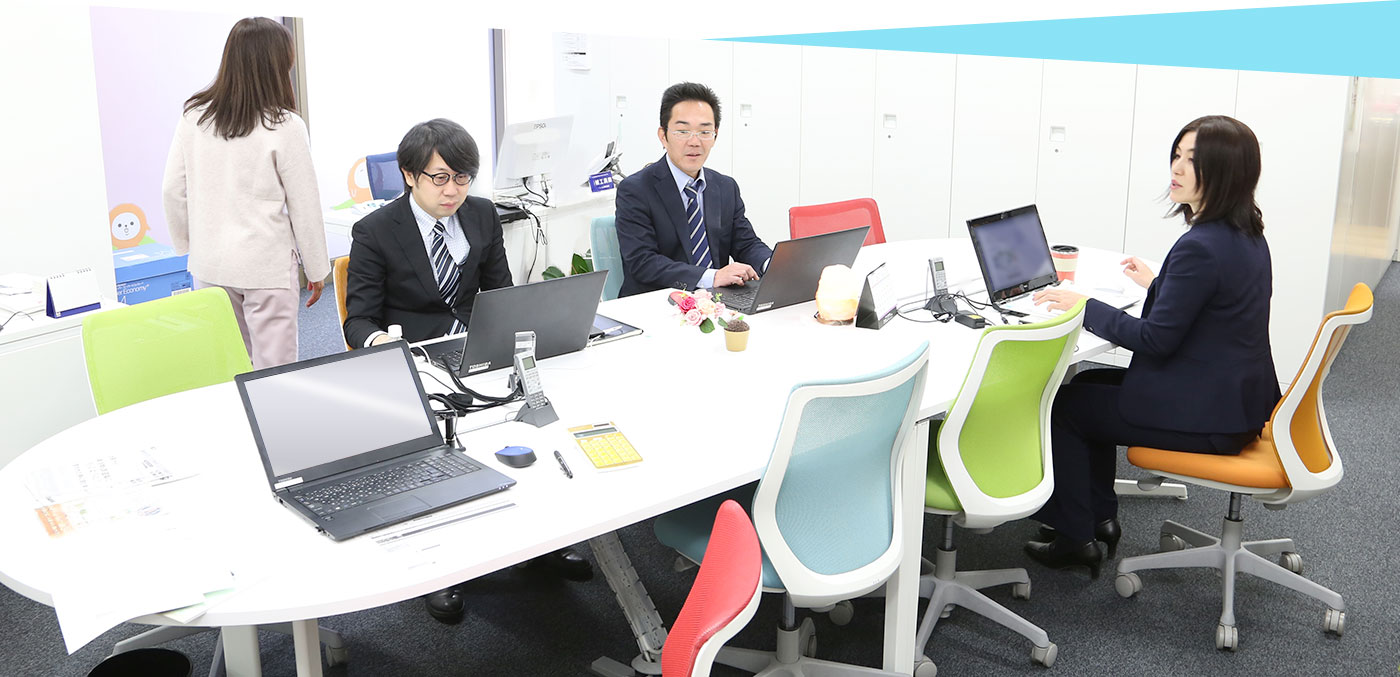
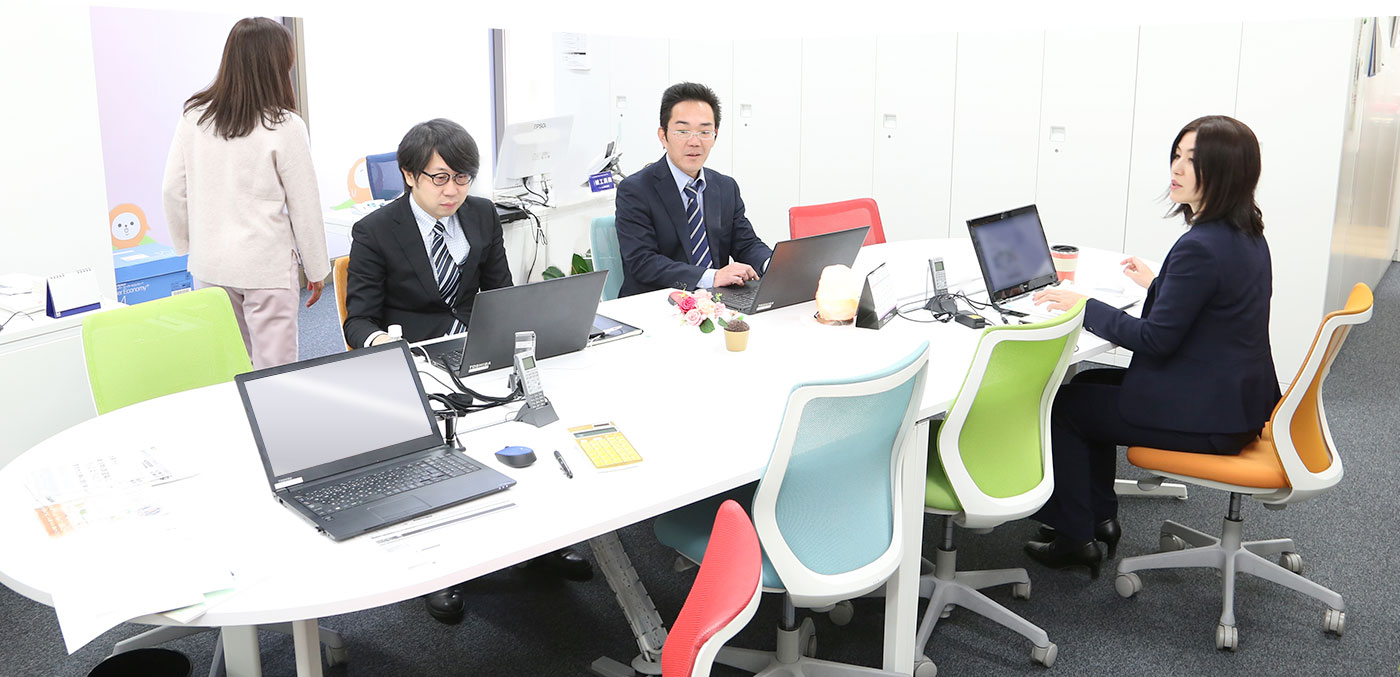
Updates for top image arrow

Changed region(s): [[0.5221, 0.0, 1.0, 0.1241]]

diff --git a/markup/js/mobile.js b/markup/js/mobile.js
@@ -2,9 +2,27 @@ $(document).ready(function() {
 	initPage();
 });
 function initPage(){
+	mobileMenu();
 	initTopLinkButton();
+	$('.menu').slideBlock();
 	initSameHeight();
 }
+
+/* Mobile Menu */
+function mobileMenu(){
+	$('a.mobile-opener').click(function(e) {
+		e.preventDefault();
+		$('body').toggleClass('nav-visible');
+	});
+	
+	if ($(window).width() <= 800) {
+		$('.navigation .fader').click(function() {
+			$('body').removeClass('nav-visible');
+		});
+	}
+	
+}
+
 
 /* Link To Top */
 function initTopLinkButton(){
@@ -13,6 +31,79 @@ function initTopLinkButton(){
 		$('html,body').animate({scrollTop:0},'slow');
 	})
 }
+
+
+/* Slide Block */
+(function($) {
+	$.fn.slideBlock = function(options){
+		var options = $.extend({
+			linkSlide: 'a.slide-link',
+			slideBlock: 'div.slide-box',
+			openClass: 'slide-active',
+			durationSlide: 500,
+			openComplete: false,
+			closeComplete: false,
+			mode:	false, //'accordion' - accordion mode or false - slide-block
+			childSlide:	'accordion-child', //use only if mode: 'accordion'
+		}, options);
+		this.each(function() {
+			if (options.mode === 'accordion') {
+				var accordion = jQuery(this);
+				var childSlide = accordion.find('> .' + options.childSlide, this);
+				childSlide.each(function(){
+					var $this = jQuery(this);
+					if (!$this.is('.' + options.openClass)) {
+						$this.children(options.slideBlock).css('display','none');
+					}
+				});
+				childSlide.each(function(){
+					var $this = jQuery(this);
+					var link = $(options.linkSlide, this).eq(0);
+					link.click(function(){
+						var that = $(this);
+						if (that.closest(childSlide).is('.'+options.openClass)) {
+							that.closest(childSlide).removeClass(options.openClass);
+							that.closest(childSlide).find('> ' + options.slideBlock).slideUp(durationSlide, function(){if(typeof( options.closeComplete) == 'function') options.closeComplete()});
+						} else {
+							that.closest(accordion).find(childSlide).removeClass(options.openClass);
+							that.closest(accordion).find(childSlide).find('> ' + options.slideBlock).slideUp(durationSlide, function(){if(typeof( options.closeComplete) == 'function') options.closeComplete()});
+
+							that.parent(childSlide).parent().addClass(options.openClass);
+							that.parent(childSlide).parent().find('> ' + options.slideBlock).slideDown(durationSlide, function(){
+								$('body,html').animate({scrollTop:that.offset().top},800);
+								if(typeof( options.openComplete) == 'function') options.openComplete(this);
+							});
+
+						}
+						return false;
+					});
+				});
+			} else {
+				var $this = jQuery(this);
+				var link = $(options.linkSlide, this).eq(0);
+				var slideBlock = $(options.slideBlock, this).eq(0);
+				var openClass = options.openClass;
+				var durationSlide = options.durationSlide;
+
+				if (!$this.is('.'+openClass)) {
+					$this.find(slideBlock).css('display','none');
+				}
+				link.click(function(){
+					if ($this.is('.'+ openClass)) {
+						$this.removeClass(openClass);
+						$this.find(slideBlock).slideUp(durationSlide, function(){if(typeof( options.closeComplete) == 'function') options.closeComplete()});
+					} else {
+						$this.addClass(openClass);
+						$this.find(slideBlock).slideDown(durationSlide, function(){if(typeof( options.openComplete) == 'function') options.openComplete(this)});
+					}
+					return false;
+				});
+			}
+		});
+		return this;
+	};
+})(jQuery);
+
 
 // set same column height
 function initSameHeight(){

diff --git a/markup/css/style.css b/markup/css/style.css
@@ -118,24 +118,7 @@ a{color:#333;text-decoration:none;cursor:pointer;margin:0;padding:0;vertical-ali
 	line-height:18px;
 	font-weight:normal;
 }
-.blog-link{
-	position:absolute;
-	display:block;
-	padding:6px 15px;
-	color:#217cb0;
-	font-size:15px;
-	line-height:17px;
-	font-weight:bold;
-	text-align:center;
-	right:0;
-	bottom:-67px;
-}
-.blog-link span{
-	display:block;
-	font-size:11px;
-	line-height:17px;
-	font-weight:normal;
-}
+.blog-link,
 .mobile-opener{display:none;}
 /* top-image */
 .top-image{
@@ -194,6 +177,51 @@ a{color:#333;text-decoration:none;cursor:pointer;margin:0;padding:0;vertical-ali
 }
 .top-image .txt p span{
 	font-style:normal;
+}
+.top-image .arrow-link{
+	position:absolute;
+	top:0;
+	right:0;
+	width:50%;
+	height:11.7%;
+	z-index:5;
+	color:#217cb0;
+	font-size:16px;
+	line-height:16px;
+	font-weight:bold;
+	background:url(../images/bg-arrow-image.png) no-repeat;
+	background-size:100% 100%;
+	text-align:center;
+	display:flex;
+	display: -webkit-box;
+	display: -moz-box;
+	display: -ms-flexbox;
+	display: -webkit-flex;
+	align-items: center;
+	overflow:hidden;
+}
+.top-image.inner .arrow-link{
+	height:34.497%;
+}
+.top-image.inner.outline .arrow-link{
+	top:-2px;
+}
+.top-image .arrow-link em{
+	display:block;
+	margin-left:410px;
+	width:100px;
+	text-align:center;
+	font-style:normal;
+}
+.top-image .arrow-link strong{
+	display:block;
+	padding-top:8px;
+}
+.top-image .arrow-link span{
+	display:block;
+	font-size:11px;
+	line-height:17px;
+	font-weight:normal;
 }
 /* content */
 #content.bg-top{
@@ -705,9 +733,6 @@ a{color:#333;text-decoration:none;cursor:pointer;margin:0;padding:0;vertical-ali
 	.menu-list{
 		right:10px;
 	}
-	.blog-link{
-		bottom:-48px;
-	}
 	.top-image .txt{
 		top:40%;
 	}
@@ -733,6 +758,14 @@ a{color:#333;text-decoration:none;cursor:pointer;margin:0;padding:0;vertical-ali
 	.table tr td{
 		padding-left:15px;
 		padding-right:10px;
+	}
+}
+@media screen and (max-width: 1030px) {
+	.top-image .arrow-link{
+		justify-content: flex-end;
+	}
+	.top-image .arrow-link em{
+		margin:0;
 	}
 }
 /* mobile view */
@@ -850,6 +883,7 @@ a{color:#333;text-decoration:none;cursor:pointer;margin:0;padding:0;vertical-ali
 	.menu-list a,
 	.blog-link,
 	.menu-soc a{
+		display:block;
 		padding:12px 20px 12px 8px;
 		font-size:11px;
 		line-height:16px;
@@ -906,6 +940,7 @@ a{color:#333;text-decoration:none;cursor:pointer;margin:0;padding:0;vertical-ali
 		line-height:22px;
 		letter-spacing:3px;
 	}
+	.top-image .arrow-link{display:none;}
 	.recruit,
 	.recruit .center-holder{
 		background:#bde3ea;

diff --git a/markup/temporary_top.html b/markup/temporary_top.html
@@ -24,7 +24,7 @@
 							<li><a href="#">会社案内<span>COMPANY</span></a></li>
 							<li><a href="#">採用情報<span>RECRUIT</span></a></li>
 						</ul>
-						<a class="blog-link" href="#">ブログ<span>BLOG</span></a>
+						<a class="blog-link" href="#">ブログ</a>
 						<ul class="menu-soc">
 							<li><a class="link-facebook" href="#">facebook</a></li>
 							<li><a class="link-twitter" href="#">Twitter</a></li>
@@ -41,6 +41,7 @@
 		<!-- header end -->
 		<!-- top-image begin -->
 		<section class="top-image">
+			<a href="#" class="arrow-link"><em><strong>ブログ</strong><span>BLOG</span></em></a>
 			<h2>「人」と「暮らし」を <br>よくする会社</h2>
 			<img class="pc" src="images/top-image-pc.jpg" alt="「人」と「暮らし」を よくする会社" />
 			<img class="sp" src="images/top-image-sp.jpg" alt="「人」と「暮らし」を よくする会社" />

diff --git a/markup/outline.html b/markup/outline.html
@@ -24,7 +24,7 @@
 							<li><a href="#">会社案内<span>COMPANY</span></a></li>
 							<li><a href="#">採用情報<span>RECRUIT</span></a></li>
 						</ul>
-						<a class="blog-link" href="#">ブログ<span>BLOG</span></a>
+						<a class="blog-link" href="#">ブログ</a>
 						<ul class="menu-soc">
 							<li><a class="link-facebook" href="#">facebook</a></li>
 							<li><a class="link-twitter" href="#">Twitter</a></li>
@@ -40,7 +40,8 @@
 		</header>
 		<!-- header end -->
 		<!-- top-image begin -->
-		<section class="top-image">
+		<section class="top-image inner outline">
+			<a href="#" class="arrow-link"><em><strong>ブログ</strong><span>BLOG</span></em></a>
 			<div class="txt">
 				<h3>会社案内</h3>
 				<p><span>COMPANY</span></p>

diff --git a/markup/interview.html b/markup/interview.html
@@ -24,7 +24,7 @@
 							<li><a href="#">会社案内<span>COMPANY</span></a></li>
 							<li><a href="#">採用情報<span>RECRUIT</span></a></li>
 						</ul>
-						<a class="blog-link" href="#">ブログ<span>BLOG</span></a>
+						<a class="blog-link" href="#">ブログ</a>
 						<ul class="menu-soc">
 							<li><a class="link-facebook" href="#">facebook</a></li>
 							<li><a class="link-twitter" href="#">Twitter</a></li>
@@ -40,7 +40,8 @@
 		</header>
 		<!-- header end -->
 		<!-- top-image begin -->
-		<section class="top-image pc">
+		<section class="top-image pc inner">
+			<a href="#" class="arrow-link"><em><strong>ブログ</strong><span>BLOG</span></em></a>
 			<div class="txt">
 				<h3>採用情報</h3>
 				<p>RECRUIT</p>
